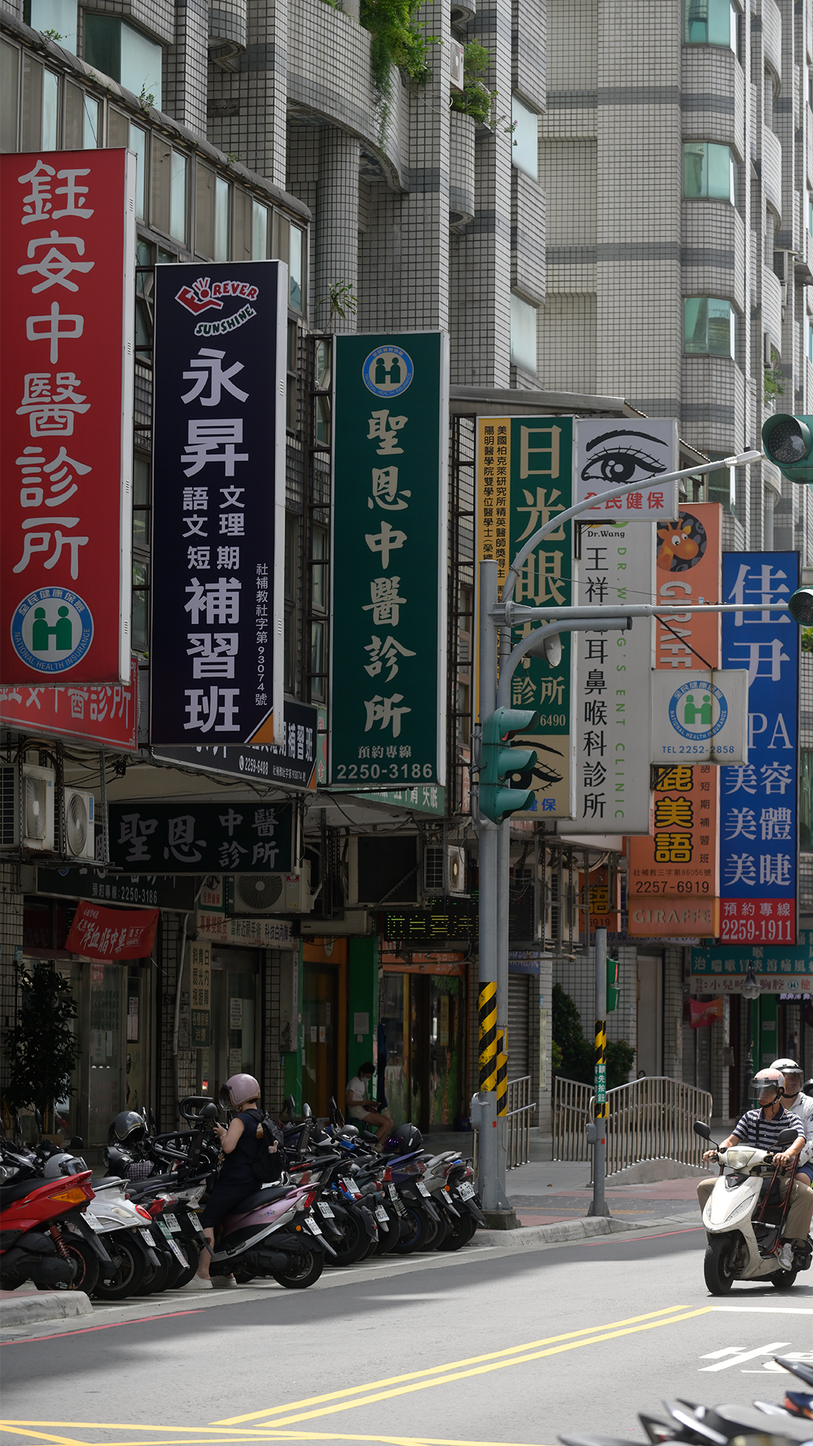
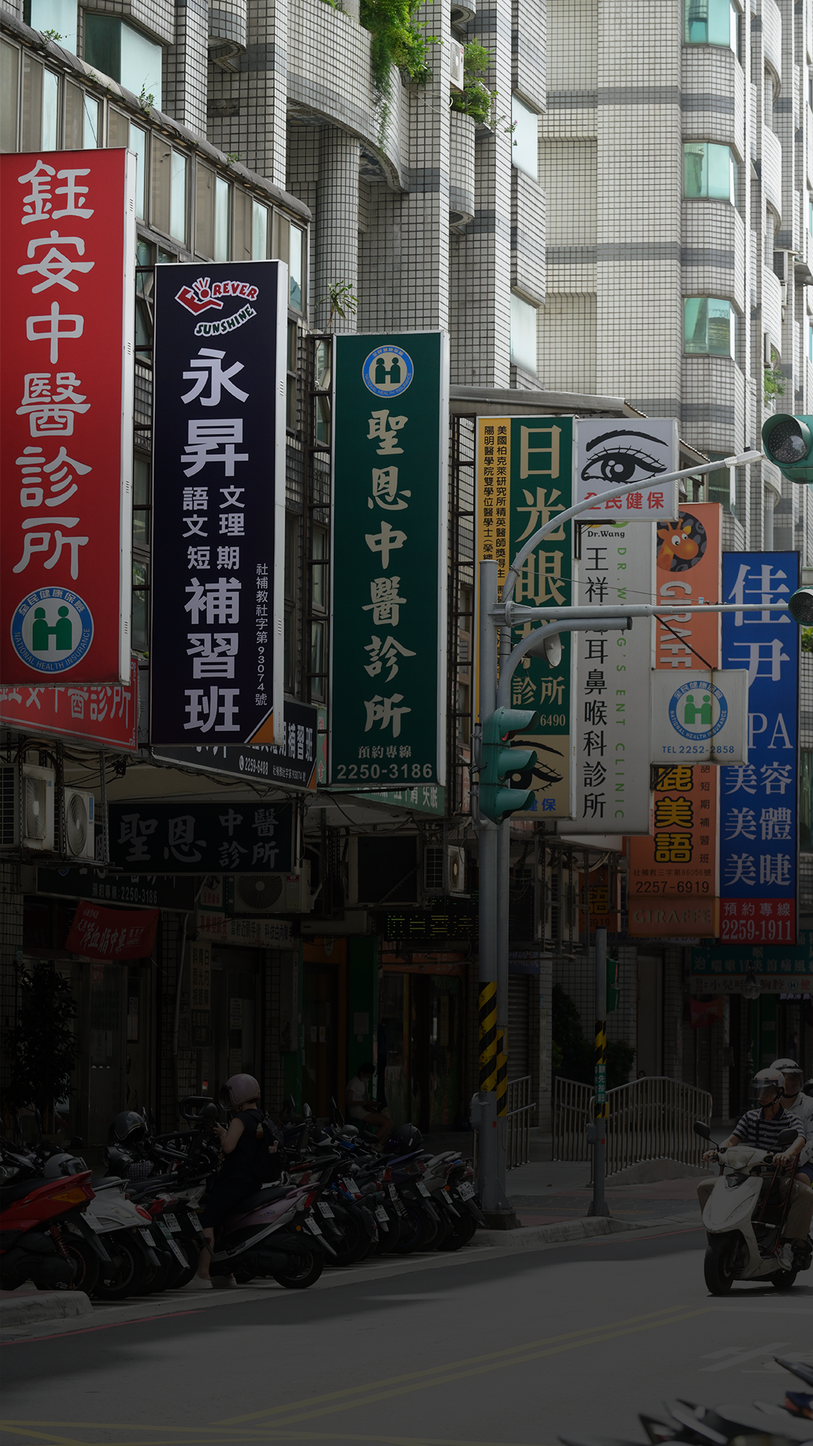
hero

diff --git a/scss/main.css b/scss/main.css
@@ -2798,16 +2798,6 @@ section:not(#section-banner, .section-bottom) .comment-block .swiper-pagination-
   }
 }
 
-#section-banner .banner-mask {
-  position: absolute;
-  inset: 0;
-  z-index: 1;
-  pointer-events: none;
-  background:
-    linear-gradient(180deg, rgba(0, 0, 0, .18) 0%, rgba(0, 0, 0, .12) 30%, rgba(0, 0, 0, .38) 58%, rgba(0, 0, 0, .82) 100%),
-    radial-gradient(ellipse at 50% 78%, rgba(0, 0, 0, .08) 0%, rgba(0, 0, 0, .42) 100%);
-}
-
 #section-banner .banner-block .container {
   position: relative;
   z-index: 2;
@@ -2883,29 +2873,39 @@ section:not(#section-banner, .section-bottom) .comment-block .swiper-pagination-
 }
 
 #section-banner .banner-title {
+  --hero-title: clamp(52px, 8.2vw, 104px);
   width: 100%;
-  max-width: 1000px;
+  max-width: 1200px;
   color: #fff;
   text-align: center;
 }
 
-#section-banner .banner-title h1 {
-  margin: 12px 0;
-  color: #ff7a00;
-  font-size: clamp(36px, 6.4vw, 80px);
-  font-weight: 900;
-  line-height: 1.15;
-  letter-spacing: .04em;
-  text-shadow: 0 2px 28px rgba(0, 0, 0, .45);
-  word-break: keep-all;
+#section-banner .banner-copy {
+  display: flex;
+  flex-direction: column;
+  align-items: stretch;
+  width: max-content;
+  max-width: 100%;
 }
 
-@media only screen and (width <= 768px) {
-  #section-banner .banner-title h1 {
-    margin: 10px 0;
-    font-size: clamp(32px, 9vw, 44px);
-    letter-spacing: .03em;
-  }
+#section-banner .banner-title h1 {
+  margin: 8px 0 10px;
+  color: #f45500;
+  font-size: var(--hero-title);
+  font-weight: 900;
+  line-height: 1.12;
+  letter-spacing: .02em;
+  text-shadow: 0 2px 28px rgba(0, 0, 0, .45);
+  word-break: keep-all;
+  white-space: nowrap;
+}
+
+#section-banner .banner-title-desktop {
+  display: inline;
+}
+
+#section-banner .banner-title-mobile {
+  display: none;
 }
 
 #section-banner .banner-title .banner-kicker,
@@ -2915,33 +2915,54 @@ section:not(#section-banner, .section-bottom) .comment-block .swiper-pagination-
   margin: 0;
   color: #fff;
   font-weight: 700;
-  letter-spacing: .04em;
   text-shadow: 0 1px 16px rgba(0, 0, 0, .55);
   word-break: keep-all;
 }
 
 #section-banner .banner-title .banner-kicker {
-  font-size: clamp(15px, 1.7vw, 22px);
+  font-size: clamp(18px, 2.2vw, 28px);
   line-height: 1.5;
+  letter-spacing: .06em;
+  text-align: center;
 }
 
 #section-banner .banner-title .banner-sub {
-  font-size: clamp(16px, 2vw, 28px);
-  line-height: 1.55;
+  font-size: calc(var(--hero-title) * 9 / 16);
+  line-height: 1.35;
+  letter-spacing: 0;
+  text-align: justify;
+  text-align-last: justify;
+  text-justify: inter-character;
 }
 
 @media only screen and (width <= 768px) {
+  #section-banner .banner-title {
+    --hero-title: clamp(44px, 12.5vw, 56px);
+  }
+
+  #section-banner .banner-title h1 {
+    margin: 8px 0 12px;
+    white-space: normal;
+    line-height: 1.12;
+    letter-spacing: .01em;
+  }
+
+  #section-banner .banner-title-desktop {
+    display: none;
+  }
+
+  #section-banner .banner-title-mobile {
+    display: block;
+  }
+
   #section-banner .banner-title .banner-kicker {
-    font-size: 15px;
+    font-size: 18px;
+    letter-spacing: .04em;
   }
 
   #section-banner .banner-title .banner-sub {
-    font-size: 16px;
+    font-size: calc(var(--hero-title) * 6 / 16);
   }
-}
-
-#section-banner .banner-title > * {
-  text-align: center;
 }
 
 .chart-style {

diff --git a/index.html b/index.html
@@ -132,15 +132,19 @@
         <section id="section-banner">
             <div class="banner-block">
                 <picture class="banner-photo">
-                    <source media="(max-width: 768px)" srcset="images/hero-mobile.webp" type="image/webp">
-                    <img src="images/hero-desktop.webp" alt="台北街頭診所招牌林立" width="1920" height="1080" fetchpriority="high">
+                    <source media="(max-width: 768px)" srcset="images/hero-mobile.webp?v=20261006" type="image/webp">
+                    <img src="images/hero-desktop.webp?v=20261006" alt="台北街頭診所招牌林立" width="1920" height="1080" fetchpriority="high">
                 </picture>
-                <div class="banner-mask" aria-hidden="true"></div>
                 <div class="container flex">
                     <div class="banner-title flex flex-col items-center">
-                        <p class="banner-kicker">比超商還多，走50步就一家</p>
-                        <h1>診所戰國時代來臨！</h1>
-                        <p class="banner-sub">繁榮與危機並存，醫師如何走出新路</p>
+                        <div class="banner-copy">
+                          <p class="banner-kicker">比超商還多，走50步就一家</p>
+                          <h1>
+                            <span class="banner-title-desktop">診所戰國時代來臨！</span>
+                            <span class="banner-title-mobile">診所戰國時代<br>時代來臨！</span>
+                          </h1>
+                          <p class="banner-sub">繁榮與危機並存，醫師如何走出新路</p>
+                        </div>
                     </div>
                 </div>
             </div>
